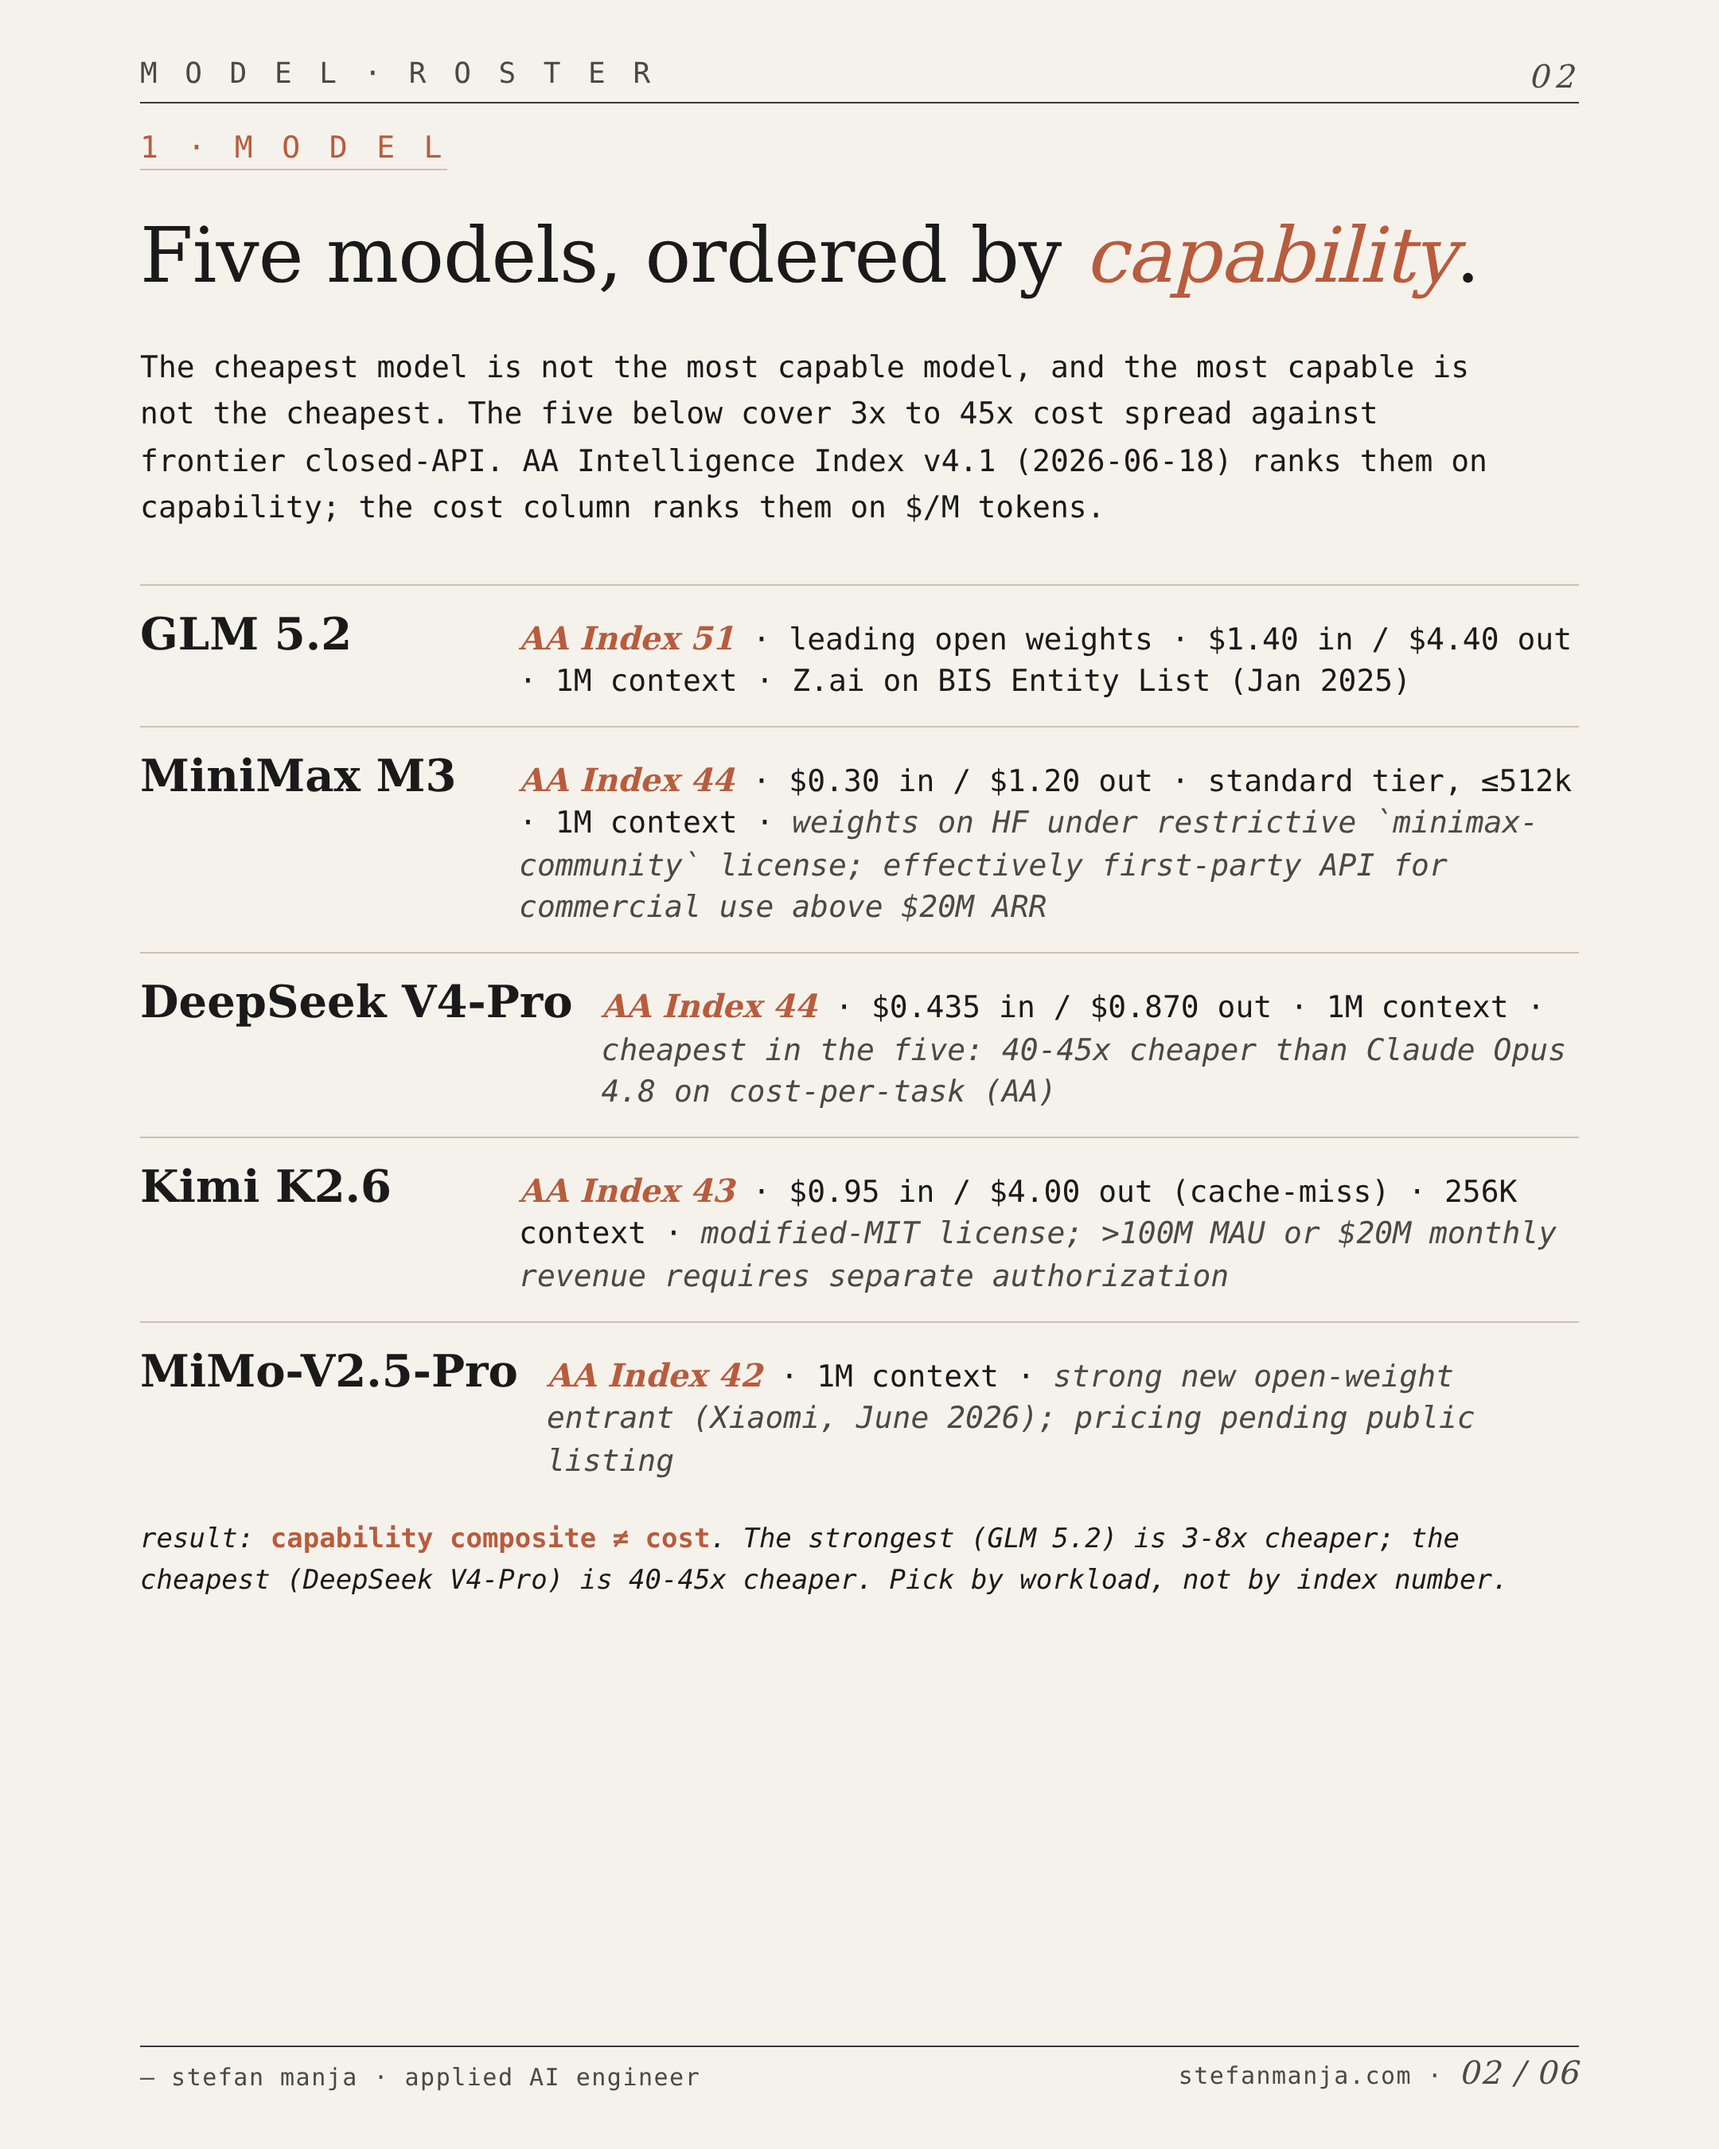
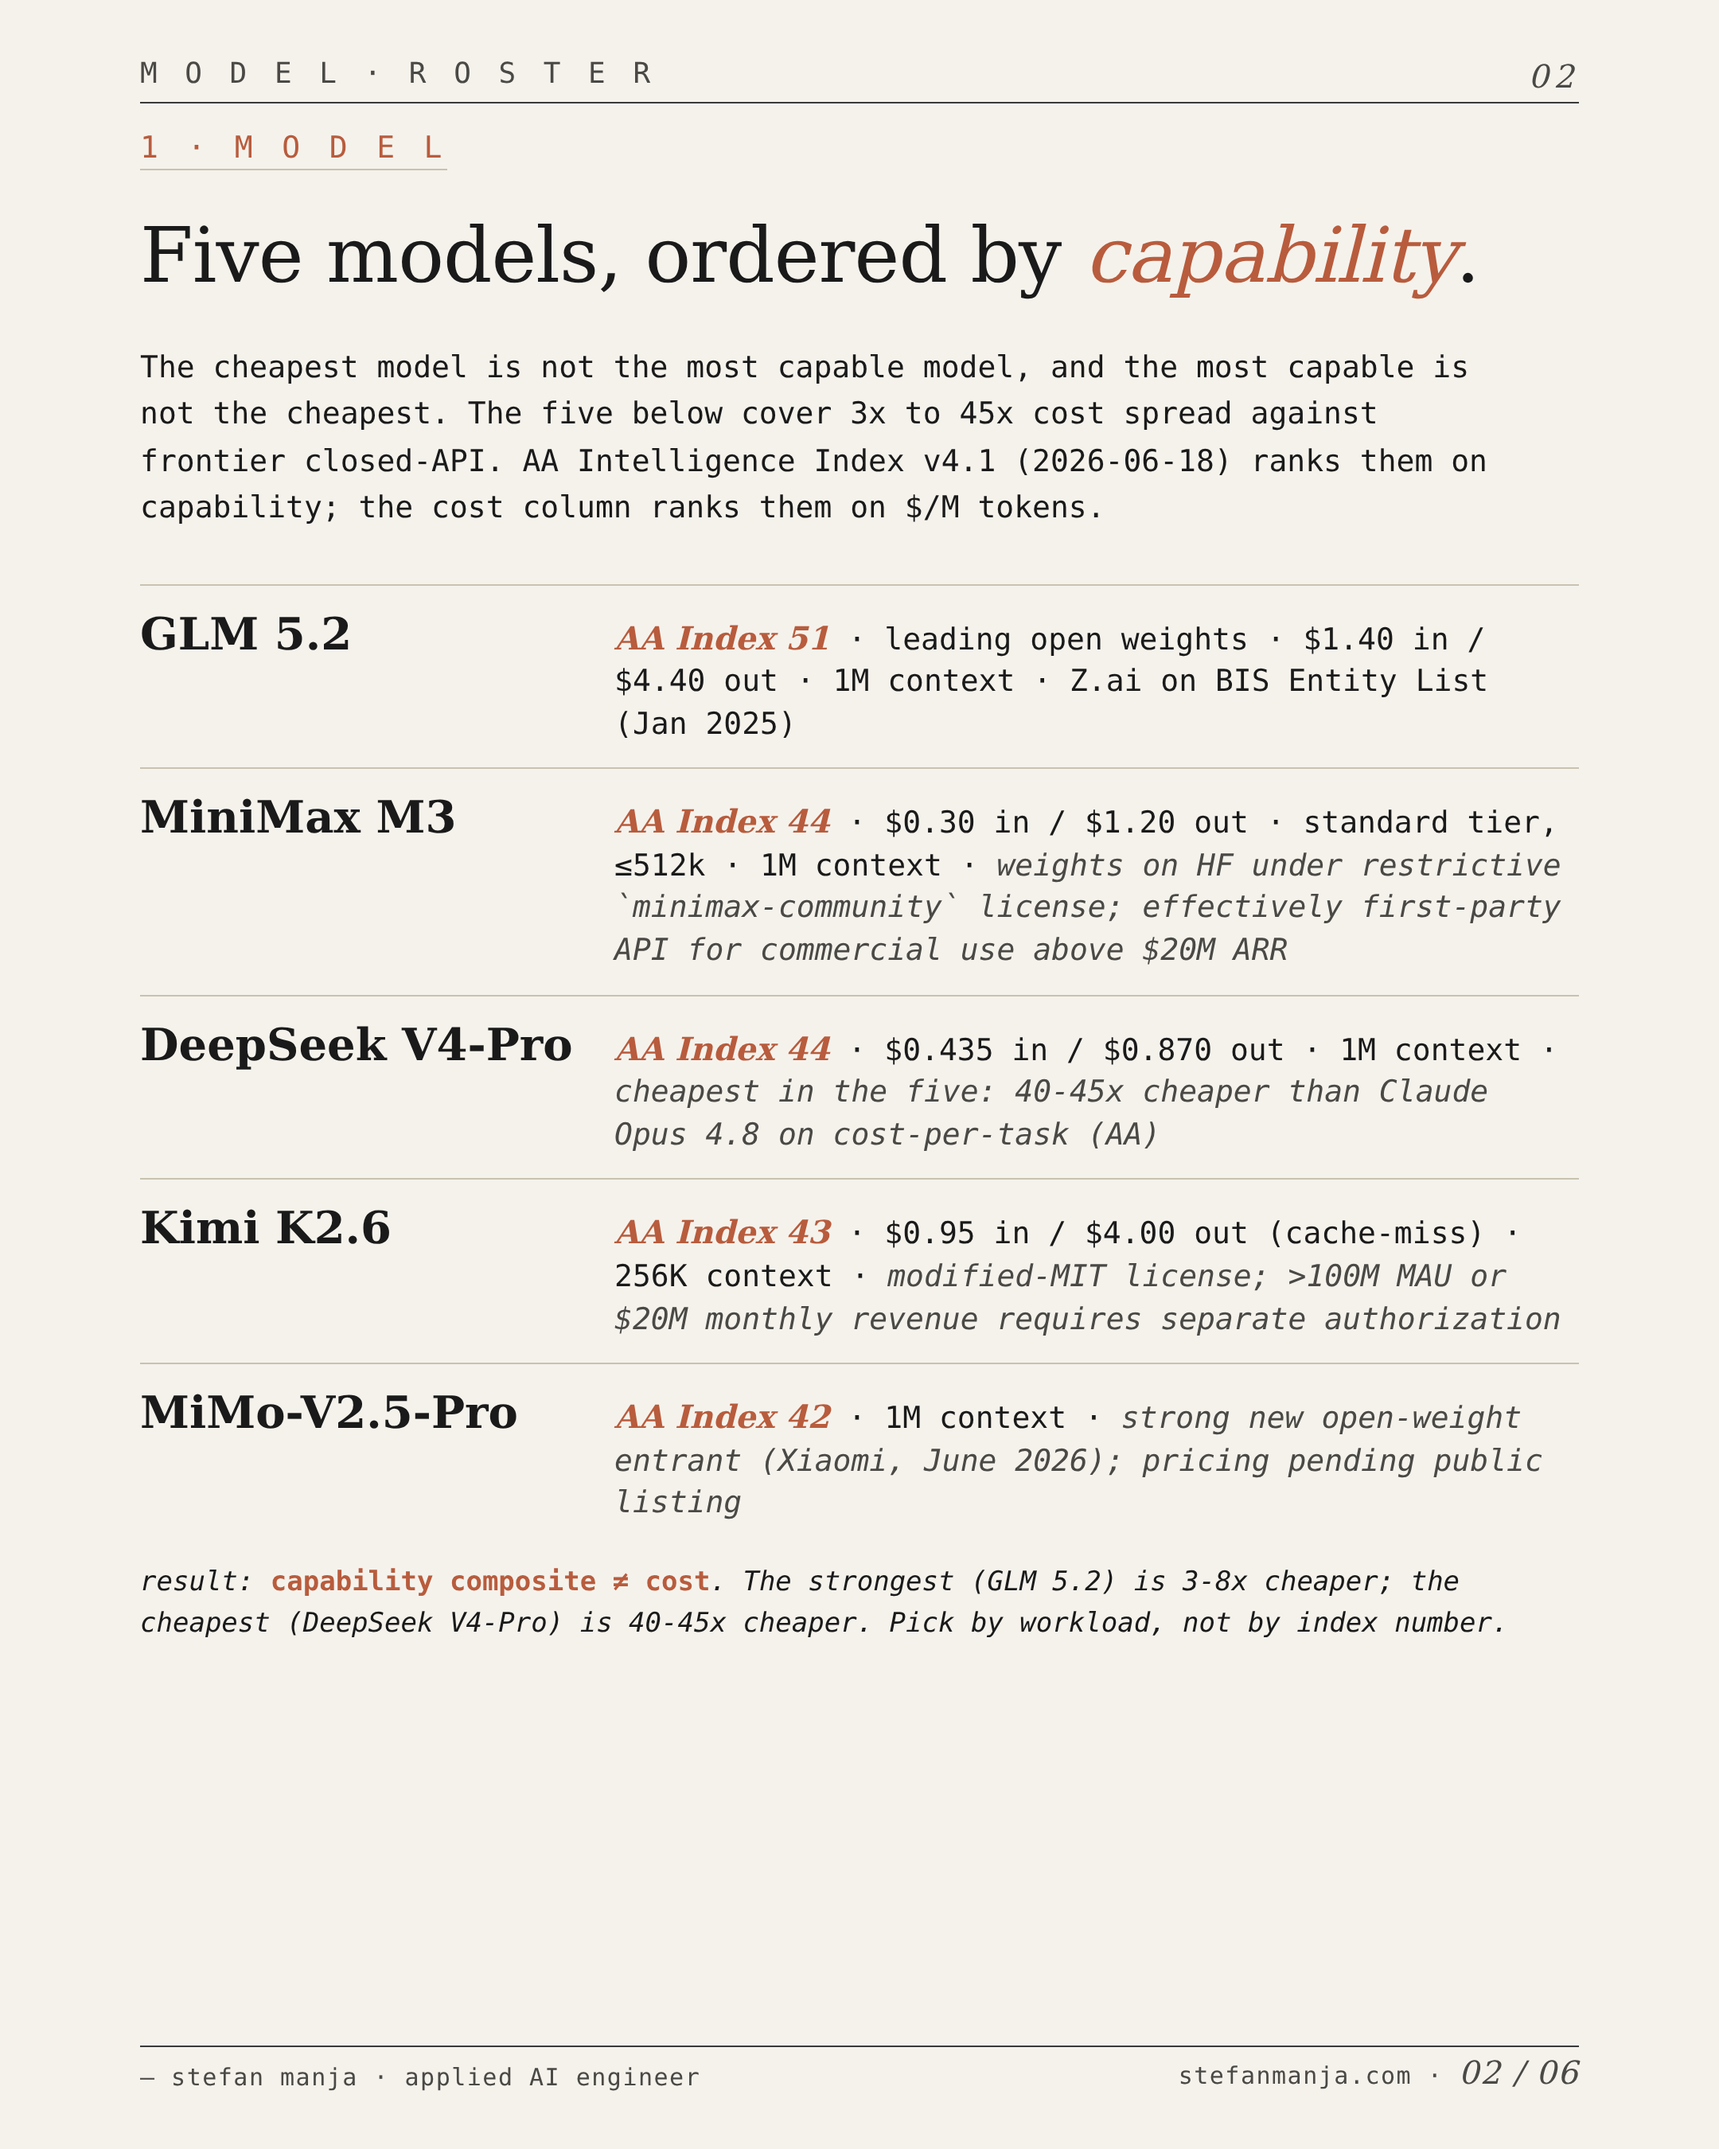
fix(carousel): v10.1 carousel B — cache pricing, 11.9%, capability/cost split
- Slide 3: '~12%' -> '11.9% on the gcf-hint cell'; added '10-row x 30-trial sample unpowered for accuracy' caveat; other-workloads hedge preserved
- Slide 4: 1M context reframed as a capability lever (not a cost discipline lever); cost discipline reframed to hybrid + rerank + prompt caching
- Slide 4 cache pricing: 'per-cache-hit, not per-token' -> 'cache-hit pricing is typically 5-10x lower than cache-miss pricing (per 1M tokens read from cache)'. The 5-10x cost reduction comes from the cache-hit price being 5-10x LOWER than the cache-miss price, not from being 'free' per request
- Slide 2 CSS: .model-name min-width 220px -> width 280px + flex-shrink 0, so all 5 model descriptions align at the same x position regardless of name length
- Slide 6: 7 sections -> 5 sections (dropped COMPANION + INDEX METHODOLOGY cite-labels; condensed PRIVACY); INDEX METHODOLOGY moved to blog post methodology note
- LinkedIn draft: slide 3 mirror (11.9%, unpowered caveat); slide 4 mirror (capability/cost split, cache pricing fix, hybrid + rerank + caching as the cost lever)
- Slide 2+3+4+6 PNGs re-rendered with the v10.1 edits

Changed region(s): [[0.062, 0.28, 0.8995, 0.7778], [0.062, 0.3422, 0.2792, 0.4044], [0.062, 0.5289, 0.2481, 0.5911]]

diff --git a/carousel/cost-discipline-2026.html b/carousel/cost-discipline-2026.html
@@ -135,7 +135,7 @@
   .model-name {
     font-family: "IBM Plex Serif", "Charter", Georgia, serif;
     font-size: 28px; line-height: 1.2; font-weight: 600;
-    color: var(--ink); min-width: 220px;
+    color: var(--ink); width: 280px; flex-shrink: 0;
   }
   .model-detail {
     font-size: 19px; line-height: 1.4; color: var(--ink);
@@ -269,10 +269,10 @@
   <div class="folio folio-r"><span class="num">03</span></div>
 
   <span class="marker accent-rule">2  ·  F O R M A T</span>
-  <h1 class="slide-title">Prompt format: <em>~12%</em> end-to-end, in the best case.</h1>
+  <h1 class="slide-title">Prompt format: <em>11.9%</em> end-to-end, in the best case.</h1>
 
   <div class="lede">
-    TOON (Token-Oriented Object Notation) and GCF cut prompt tokens 30-45% on uniform-array data. End-to-end cost saving is smaller — <span class="num">~12% in the best case</span> at gpt-5-mini high, 30 trials, internal ranking, ~200 candidates per call. Other workloads may differ.
+    TOON (Token-Oriented Object Notation) and GCF cut prompt tokens 30-45% on uniform-array data. End-to-end cost saving is smaller — <span class="num">11.9% on the gcf-hint cell</span>, 30 trials, internal ranking, ~200 candidates per call. 10-row × 30-trial sample unpowered for accuracy. Other workloads may differ.
   </div>
 
   <hr class="divider">
@@ -287,7 +287,7 @@
     <div class="axis">
       <div class="axis-title">E N D - T O - E N D · S A V I N G</div>
       <div class="axis-body">
-        <span class="num">~12%</span> in the best case. Reasoning tokens offset some of the prompt saving. Hit@10 = 50% on all 7 cells (including JSON), so accuracy is unpowered in this sample.
+        <span class="num">11.9%</span> on the gcf-hint cell. Reasoning tokens offset some of the prompt saving. Hit@10 = 50% on all 7 cells (including JSON); the 10-row × 30-trial sample is unpowered for accuracy.
       </div>
     </div>
     <div class="axis">
@@ -299,7 +299,7 @@
   </div>
 
   <div class="result-note">
-    result: <em>format saves tokens, not dollars</em>. ~12% is a real but small lever. The bigger savings are model + architecture.
+    result: <em>format saves tokens, not dollars</em>. 11.9% is real but small. The bigger savings are model + architecture.
   </div>
 
   <div class="byline">— stefan manja  ·  applied AI engineer</div>
@@ -321,7 +321,7 @@
     <div class="axis">
       <div class="axis-title">1  ·  1 M · C O N T E X T</div>
       <div class="axis-body">
-        <span class="num">1M-context</span> windows now standard for 4 of 5 (GLM 5.2, MiniMax M3, DeepSeek V4-Pro, MiMo-V2.5-Pro); Kimi K2.6 at 256K. Long context is the lever for <em>single-document ingest</em> (one or a few large docs); RAG is still the lever for <em>cross-document scale</em> (10K+ documents). The two are complementary, not substitutes.
+        <span class="num">1M context</span> is a <em>capability</em> lever, not a cost discipline lever. It costs more per query than focused RAG. Use 1M context for <em>single-document ingest</em> (one or a few large docs); RAG is still the lever for <em>cross-document scale</em> (10K+ documents). 4 of 5 ship with 1M context (GLM 5.2, MiniMax M3, DeepSeek V4-Pro, MiMo-V2.5-Pro); Kimi K2.6 at 256K.
       </div>
     </div>
     <div class="axis">
@@ -333,7 +333,7 @@
     <div class="axis">
       <div class="axis-title">3  ·  P R O M P T · C A C H I N G</div>
       <div class="axis-body">
-        <span class="num">5-10x</span> reduction in repeated-prefix cost. Anthropic, OpenAI, DeepSeek, Moonshot, and Z.ai all offer prompt caching. The cost is per-cache-hit, not per-token. For RAG systems with stable system prompts + long context windows, the savings are material.
+        <span class="num">5-10x</span> reduction in repeated-prefix cost. Anthropic, OpenAI, DeepSeek, Moonshot, and Z.ai all offer prompt caching. <em>Cache-hit pricing is typically 5-10x lower than cache-miss pricing (per 1M tokens read from cache).</em> For RAG systems with stable system prompts + long context windows, the savings are material.
       </div>
     </div>
   </div>
@@ -393,17 +393,17 @@
 
   <div class="cite">
     <div class="cite-label">METHODOLOGY</div>
-    5 open-weight / open-routing models evaluated against frontier closed-API. AA Intelligence Index v4.1 (2026-06-18) used for capability ranking. Cost data verified 2026-06-17 from each vendor's official pricing page. The "open-weight" framing applies to all 5 except where noted (MiniMax M3 uses a restrictive `minimax-community` license; see below).
+    5 open-weight / open-routing models evaluated against frontier closed-API. AA Intelligence Index v4.1 (2026-06-18) used for capability ranking. Cost data verified 2026-06-17 from each vendor's official pricing page.
 
     <div class="cite-label">DATA · TOP-5 OPEN-WEIGHT · $ / 1M TOKENS · ordered by capability (AA Index v4.1)</div>
-    — GLM 5.2:           $1.40 in / $4.40 out · AA Index 51, leading open weights · Z.ai on BIS Entity List
-    — MiniMax M3:        $0.30 in / $1.20 out · standard tier, ≤512k · AA Index 44 · 30.9% agentic abstention (vendor-reported, Frontier Coding claim) · restrictive `minimax-community` license
-    — DeepSeek V4-Pro:   $0.435 in / $0.870 out · direct API, not 3rd-party hosted · AA Index 44 · 40-45x cheaper than Opus 4.8 on cost-per-task
-    — Kimi K2.6:         $0.95 in / $4.00 out · cache-miss rate · AA Index 43 · 256K context · modified-MIT license
-    — MiMo-V2.5-Pro:     AA Index 42 · 1M context · strong new open-weight entrant (Xiaomi, June 2026)
+    — GLM 5.2:           $1.40 in / $4.40 out · AA Index 51
+    — MiniMax M3:        $0.30 in / $1.20 out · AA Index 44
+    — DeepSeek V4-Pro:   $0.435 in / $0.870 out · AA Index 44
+    — Kimi K2.6:         $0.95 in / $4.00 out · AA Index 43
+    — MiMo-V2.5-Pro:     AA Index 42
 
     <div class="cite-label">PRIVACY · DEPLOYMENT</div>
-    For sensitive enterprise data, deploy via cloud-provider paths (AWS, Azure, Google Cloud, Oracle Cloud) or self-host. Direct APIs of Chinese providers route data through China. <em>MiniMax M3: EU / Singapore endpoints available</em> — data outside China. <em>Z.ai (GLM 5.2) is on the BIS Entity List (Jan 2025)</em> — direct API use is restricted for US persons; use cloud-provider paths only. Frontier APIs (OpenAI, Anthropic) are default-safe under their DPAs.
+    For sensitive enterprise data, deploy via cloud-provider paths (AWS, Azure, Google Cloud, Oracle Cloud) or self-host. <em>Z.ai (GLM 5.2) is on the BIS Entity List (Jan 2025)</em> — direct API use is restricted for US persons. <em>MiniMax M3: EU / Singapore endpoints available</em> — data outside China.
 
     <div class="cite-label">PRICING · VERIFIED 2026-06-17</div>
     — GLM 5.2:           <span class="url">docs.z.ai</span>
@@ -413,13 +413,6 @@
     — MiMo-V2.5-Pro:     <span class="url">huggingface.co/xiaomi</span>
     — GPT-5.5:           <span class="url">platform.openai.com</span>
     — Claude Opus 4.8:   <span class="url">anthropic.com</span>
-
-    <div class="cite-label">INDEX METHODOLOGY</div>
-    AA Index v4.1 — composite of MMLU-Pro, GPQA-Diamond, MATH, HumanEval, LiveCodeBench, Terminal-Bench. See <span class="url">artificialanalysis.ai/methodology</span>
-
-    <div class="cite-label">COMPANION CAROUSEL</div>
-    the 3 RAG operational gaps — same operational discipline, applied to retrieval:<br>
-    <span class="url">stefanmanja.com</span> (carousel 01) · <span class="url">stefanmanja.com/writing/rag-pilot-failures/</span>
 
     <div class="cite-label">FULL POST</div>
     methodology + cost data + 5-model comparison:<br>

diff --git a/carousel/cost-discipline-2026-linkedin.md b/carousel/cost-discipline-2026-linkedin.md
@@ -47,23 +47,23 @@ Result: capability composite ≠ cost. The strongest (GLM 5.2) is 3-8x cheaper. 
 
 ### Slide 3 — Format
 
-**Prompt format: ~12% end-to-end, in the best case.**
+**Prompt format: 11.9% end-to-end, in the best case.**
 
-TOON and GCF cut prompt tokens 30-45% on uniform-array data. End-to-end cost saving is smaller — ~12% in the best case at gpt-5-mini high. Same accuracy as JSON on this workload (30 trials, internal ranking, ~200 candidates per call). Other workloads may differ. Reasoning tokens offset some of the prompt saving. Format-dependent.
+TOON and GCF cut prompt tokens 30-45% on uniform-array data. End-to-end cost saving is smaller — 11.9% on the gcf-hint cell, 30 trials, internal ranking, ~200 candidates per call. 10-row × 30-trial sample unpowered for accuracy. Other workloads may differ. Reasoning tokens offset some of the prompt saving. Format-dependent.
 
-Result: format saves tokens, not dollars. ~12% is real but small. The bigger savings are model + architecture.
+Result: format saves tokens, not dollars. 11.9% is real but small. The bigger savings are model + architecture.
 
 ### Slide 4 — Architecture
 
 **Three architecture levers.**
 
-1. **1M-context.** Standard for 4 of 5 (GLM 5.2, MiniMax M3, DeepSeek V4-Pro, MiMo-V2.5-Pro); Kimi K2.6 at 256K. Long context is the lever for single-document ingest; RAG is the lever for cross-document scale (10K+ docs). Complementary, not substitutes.
+1. **1M context** is a capability lever, not a cost discipline lever. It costs more per query than focused RAG. Use 1M context for single-document ingest (one or a few large docs); RAG is still the lever for cross-document scale (10K+ documents). 4 of 5 ship with 1M context (GLM 5.2, MiniMax M3, DeepSeek V4-Pro, MiMo-V2.5-Pro); Kimi K2.6 at 256K.
 
 2. **Hybrid + rerank.** Hybrid retrieval (vector + keyword) + cross-encoder reranking. Now the default. Reduces retrieval failures 35-50% per Anthropic's Contextual Retrieval (Sep 2024).
 
-3. **Prompt caching.** 5-10x reduction in repeated-prefix cost. Anthropic, OpenAI, DeepSeek, Moonshot, and Z.ai all offer it. For RAG systems with stable system prompts + long context, the savings are material.
+3. **Prompt caching.** 5-10x reduction in repeated-prefix cost. Anthropic, OpenAI, DeepSeek, Moonshot, and Z.ai all offer it. Cache-hit pricing is typically 5-10x lower than cache-miss pricing (per 1M tokens read from cache). For RAG systems with stable system prompts + long context, the savings are material.
 
-Result: architecture compounds. 1M context + hybrid + rerank + caching together decide whether the system holds up at 1K+ queries/day.
+Result: architecture compounds. Hybrid + rerank + caching decide whether the system holds up at 1K+ queries/day.
 
 ### Slide 5 — Summary + closing question
 
